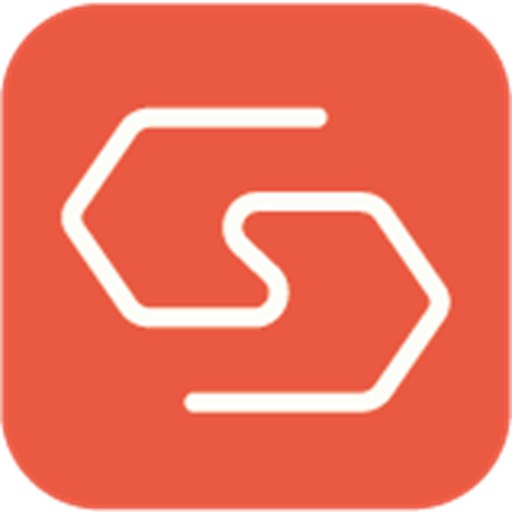
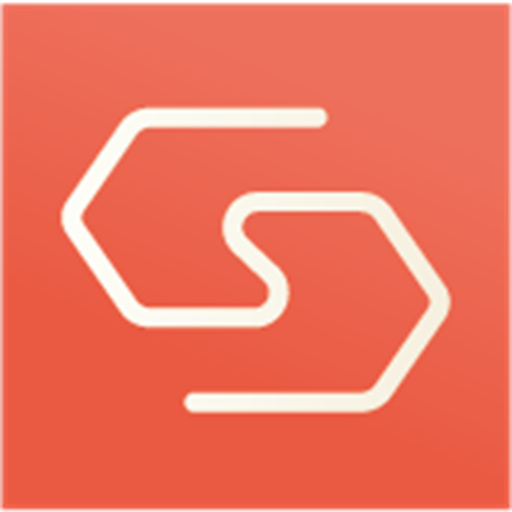
Use exact user supplied Icon2 artwork and show it on lock screen

diff --git a/src/styles.css b/src/styles.css
@@ -287,9 +287,9 @@ button:focus-visible, a:focus-visible { outline: 3px solid var(--navy); outline-
 .auth-shell { min-height: 0; }
 .auth-panel { align-items: center; justify-content: flex-start; padding: 24px; overflow-y: auto; text-align: center; gap: 12px; }
 .auth-panel > * { flex-shrink: 0; }
-.auth-panel > .auth-house { margin-top: auto; }
+.auth-panel > .auth-logo { margin-top: auto; }
 .auth-panel > :last-child { margin-bottom: auto; }
-.auth-house { width: 58px; height: 58px; color: var(--terra); flex-shrink: 0; }
+.auth-logo { width: 58px; height: 58px; object-fit: contain; flex-shrink: 0; }
 .auth-panel h1 { font-size: clamp(27px, 7vw, 36px); font-weight: 700; margin: 4px 0; line-height: 1.15; }
 .auth-panel h1:focus { outline: none; }
 .app-lock-button { position: absolute; top: 10px; right: 12px; z-index: 3; display: flex; align-items: center; justify-content: center; width: 30px; height: 30px; padding: 5px; border: 0; background: var(--cream); color: var(--navy); border-radius: 50%; }
@@ -314,4 +314,4 @@ button:focus-visible, a:focus-visible { outline: 3px solid var(--navy); outline-
 .pin-keypad button:hover { background: #ea5a4215; }
 .pin-keypad button:disabled { opacity: .4; }
 .auth-panel .auth-error, .auth-error { color: #b43430; }
-@media (max-height: 720px) { .auth-panel { gap: 8px; padding: 16px; justify-content: flex-start; } .auth-house { width: 38px; height: 38px; } .pin-keypad { gap: 8px 22px; } .pin-keypad button { height: 48px; } }
+@media (max-height: 720px) { .auth-panel { gap: 8px; padding: 16px; justify-content: flex-start; } .auth-logo { width: 38px; height: 38px; } .pin-keypad { gap: 8px 22px; } .pin-keypad button { height: 48px; } }

diff --git a/src/components/AuthBoundary.tsx b/src/components/AuthBoundary.tsx
@@ -1,7 +1,7 @@
 import { useEffect, useLayoutEffect, useRef, useState, type ReactNode } from 'react';
 import { useLocation, useNavigate } from 'react-router-dom';
 import type { Session } from '@supabase/supabase-js';
-import { Delete, House, LockKeyhole, Mail } from 'lucide-react';
+import { Delete, LockKeyhole, Mail } from 'lucide-react';
 import { configurationError, inventoryId, supabase } from '../services/supabase';
 import { checkPin, createPin, pinKey, readPin } from '../services/deviceLock';
 import { useControlFeedback } from './useControlFeedback';
@@ -155,7 +155,7 @@ export function AuthBoundary({ children }: { children: ReactNode }) {
     {session && allowed && opened && <div className="authenticated-app" hidden={showLock} inert={showLock}>{children}</div>}
     {showLock && <div className="app-shell auth-shell" {...feedback}>
       <main className="inventory-panel auth-panel">
-        <House className="auth-house" aria-hidden="true" />
+        <img className="auth-logo" src={`${import.meta.env.BASE_URL}smart-storage-original.png?v=smart-storage-3`} alt="SmartStorage" width="159" height="160" />
         {checking ? <p role="status">Kontrollerar inloggningen…</p> : !session ? <>
           <h1 ref={lockHeading} tabIndex={-1}>Välkommen hem</h1><p>Logga in en gång på den här enheten.</p>
           <form className="auth-email-form" onSubmit={async event => {

diff --git a/index.html b/index.html
@@ -7,10 +7,10 @@
     <meta name="apple-mobile-web-app-capable" content="yes" />
     <meta name="apple-mobile-web-app-status-bar-style" content="default" />
     <meta name="description" content="Ditt hem, dina platser och dina förvaringar — samlade på ett ställe." />
-    <link rel="icon" type="image/png" sizes="32x32" href="%BASE_URL%favicon-32.png?v=smart-storage-2" />
-    <link rel="icon" type="image/png" sizes="48x48" href="%BASE_URL%favicon-48.png?v=smart-storage-2" />
-    <link rel="apple-touch-icon" sizes="180x180" href="%BASE_URL%apple-touch-icon.png?v=smart-storage-2" />
-    <link rel="manifest" href="%BASE_URL%manifest.webmanifest?v=smart-storage-2" />
+    <link rel="icon" type="image/png" sizes="32x32" href="%BASE_URL%favicon-32.png?v=smart-storage-3" />
+    <link rel="icon" type="image/png" sizes="48x48" href="%BASE_URL%favicon-48.png?v=smart-storage-3" />
+    <link rel="apple-touch-icon" sizes="180x180" href="%BASE_URL%apple-touch-icon.png?v=smart-storage-3" />
+    <link rel="manifest" href="%BASE_URL%manifest.webmanifest?v=smart-storage-3" />
     <title>Mitt hem · Heminventering</title>
   </head>
   <body>
